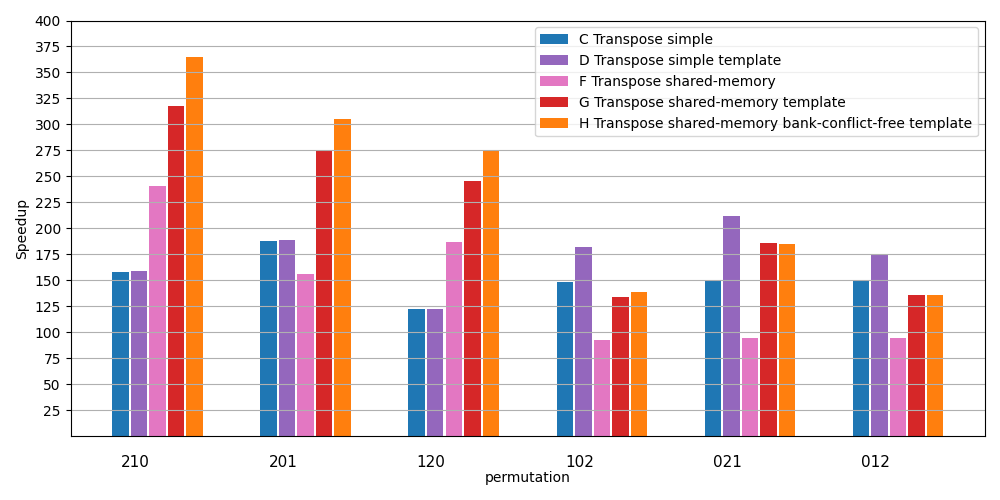
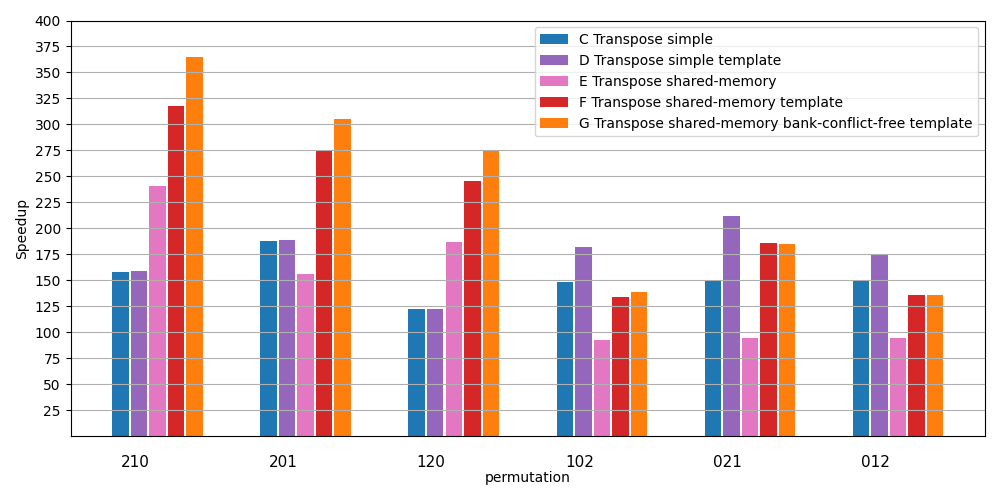
update

Changed region(s): [[0.558, 0.15, 0.961, 0.27]]

diff --git a/transpose/analyze_kernel.py b/transpose/analyze_kernel.py
@@ -40,7 +40,7 @@ if bandwidth_analysis:
                 for i, info in enumerate(file):
                     info = info[:-1] # delete \n
                     if i % 5 == 0:
-                        name.append(f'{chr(65+i//4)} {info}')
+                        name.append(f'{chr(65+i//5)} {info}')
                     elif i % 5 == 1:
                         check.append(info == '1')
                     elif i % 5 == 2:
@@ -57,11 +57,11 @@ if bandwidth_analysis:
             pos = np.arange(counter, counter+offset, inc)
             for i in range(len(name)):
                 plt.bar(pos[i], bandwidth[i], color=col[i])
-            plt.yticks(np.arange(25,625,25))
+            plt.yticks(np.arange(25,425,25))
             plt.xticks([])  
             plt.text(counter, -30, perm, fontsize=11)
             plt.ylabel('Bandwidth (GB/s)')
-            plt.xlabel('permutation', labelpad=20.0)
+            plt.xlabel('permutation', labelpad=30.0)
             counter = counter + offset + inc
 
         plt.title(f"Dimension: {dim}")
@@ -107,7 +107,7 @@ if time_analysis:
                 for i, info in enumerate(file):
                     info = info[:-1] # delete \n
                     if i % 5 == 0:
-                        name.append(f'{chr(65+i//4)} {info}')
+                        name.append(f'{chr(65+i//5)} {info}')
                     elif i % 5 == 1:
                         check.append(info == '1')
                     elif i % 5 == 2:
@@ -174,7 +174,7 @@ if speedup_analysis:
                 for i, info in enumerate(file):
                     info = info[:-1] # delete \n
                     if i % 5 == 0:
-                        name.append(f'{chr(65+i//4)} {info}')
+                        name.append(f'{chr(65+i//5)} {info}')
                     elif i % 5 == 1:
                         check.append(info == '1')
                     elif i % 5 == 2:

diff --git a/transpose/analyze_device.py b/transpose/analyze_device.py
@@ -41,7 +41,7 @@ if time_analysis:
                 for i, info in enumerate(file):
                     info = info[:-1] # delete \n
                     if i % 4 == 0:
-                        name.append(f'{chr(65+i//3)} {info}')
+                        name.append(f'{chr(65+i//4)} {info}')
                     elif i % 4 == 1:
                         check.append(bool(info))
                     elif i % 4 == 2:
@@ -105,7 +105,7 @@ if speedup_analysis:
                 for i, info in enumerate(file):
                     info = info[:-1] # delete \n
                     if i % 4 == 0:
-                        name.append(f'{chr(65+i//3)} {info}')
+                        name.append(f'{chr(65+i//4)} {info}')
                     elif i % 4 == 1:
                         check.append(bool(info))
                     elif i % 4 == 2:

diff --git a/transpose/analyze_matrix.py b/transpose/analyze_matrix.py
@@ -26,7 +26,7 @@ if bandwidth_analysis:
             for i, info in enumerate(file):
                 info = info[:-1] # delete \n
                 if i % 5 == 0:
-                    name.append(f'{chr(65+i//4)} {info}')
+                    name.append(f'{chr(65+i//5)} {info}')
                 elif i % 5 == 1:
                     check.append(info == '1')
                 elif i % 5 == 2:
@@ -78,7 +78,7 @@ if speedup_analysis:
             for i, info in enumerate(file):
                 info = info[:-1] # delete \n
                 if i % 5 == 0:
-                    name.append(f'{chr(65+i//4)} {info}')
+                    name.append(f'{chr(65+i//5)} {info}')
                 elif i % 5 == 1:
                     check.append(info == '1')
                 elif i % 5 == 2:

diff --git a/transpose/bank_conflict_checker.py b/transpose/bank_conflict_checker.py
@@ -118,11 +118,19 @@ if __name__ == '__main__':
     dims = (8,8,8)
     check_conflicts(dims, padd, perms, print_shmem, print_conflics)
     """
+    PADDING = (0, 0, 0) =>
+    conflics of (0, 1, 2): 0.0
+    conflics of (0, 2, 1): 16.0
+    conflics of (1, 0, 2): 24.0
+    conflics of (1, 2, 0): 28.0
+    conflics of (2, 0, 1): 28.0
+    conflics of (2, 1, 0): 28.0
+
+    PADDING = (0, 0, 1) =>
     conflics of (0, 1, 2): 0.0
     conflics of (0, 2, 1): 5.333333333333333
     conflics of (1, 0, 2): 5.111111111111111
     conflics of (1, 2, 0): 16.0
     conflics of (2, 0, 1): 0.0
     conflics of (2, 1, 0): 16.0
-    conflics sum: 42.44444444444444
     """
